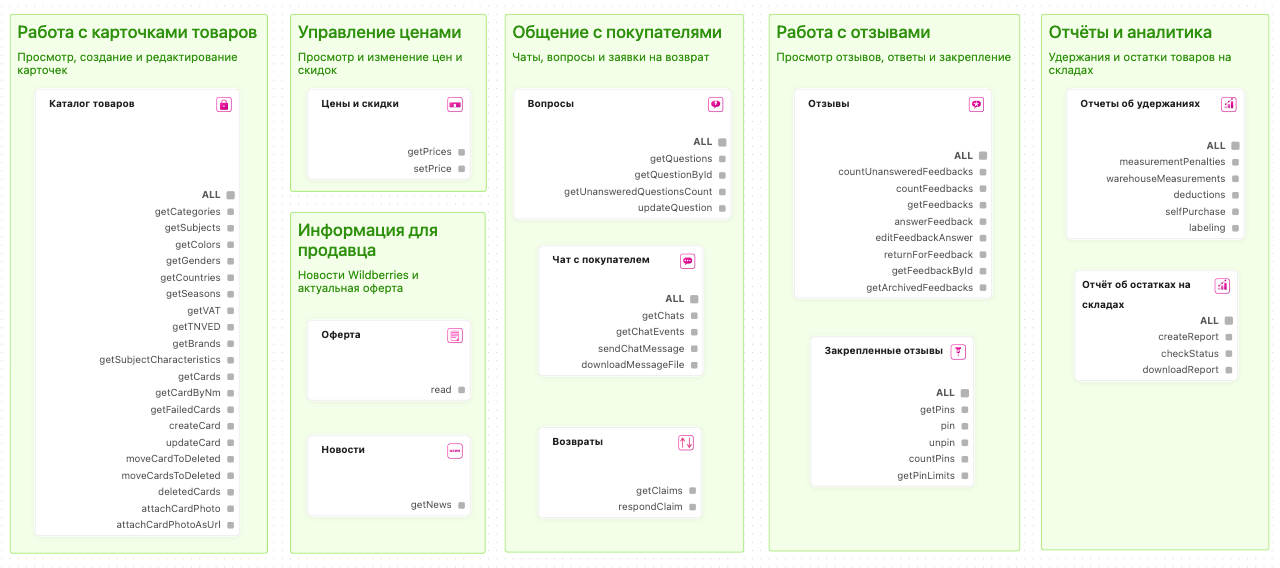
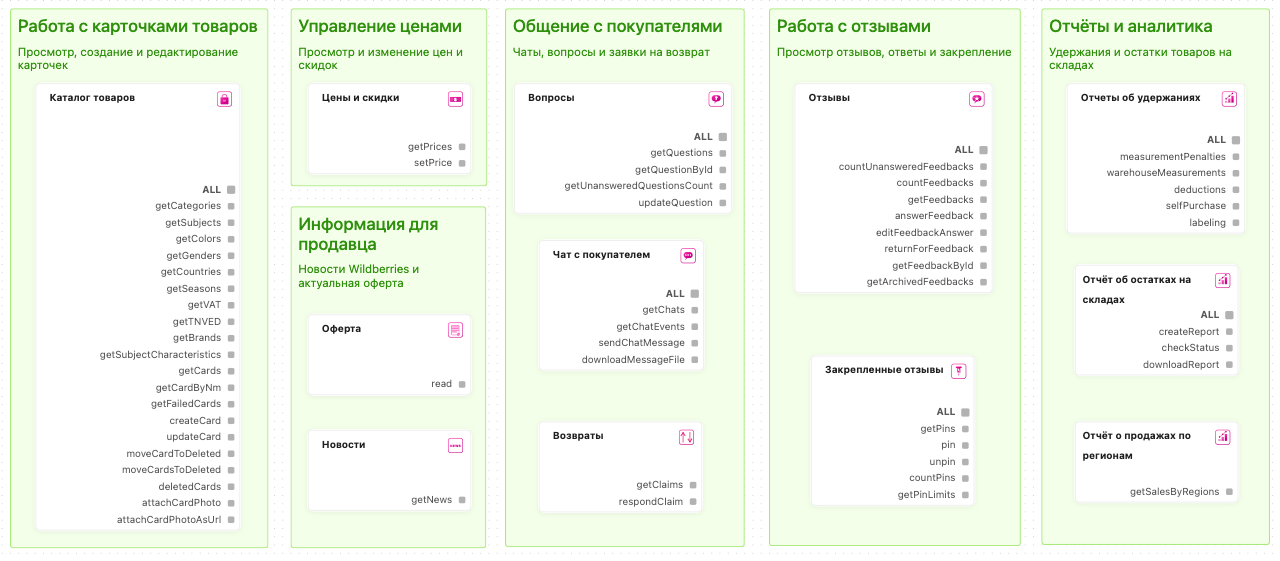
add new info

diff --git a/docs/4-platform/05-tools.md b/docs/4-platform/05-tools.md
@@ -113,6 +113,13 @@ MarketAut предоставляет инструменты для работы 
 | `selfPurchase`          | Получает отчёт об удержаниях за самовыкупы                         |
 | `labeling`              | Получает отчёт об удержаниях за отсутствие обязательной маркировки |
 
+### Отчёт о продажах по регионам
+
+
+| Инструмент | Описание |
+|---|---|
+| `getSalesByRegions` | Получает отчёт о продажах товаров по регионам |
+
 ### Отчёт об остатках на складах
 
 | Инструмент       | Описание                                  |
